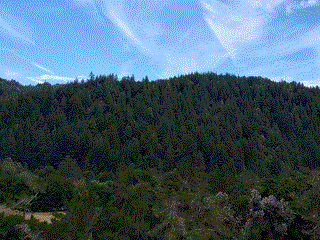
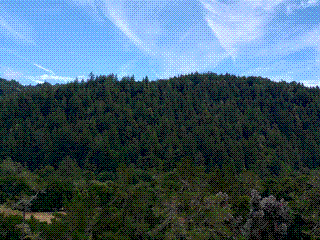
Title: PS1-style ordered dither on the background
Re-bake the title photo with a 4x4 ordered dither, the pattern the
PlayStation uses on its framebuffer, instead of error diffusion. The sky
gradient reads with the regular cross-hatch of a PS1 title rather than
the grain of a retro PC one. The CGA reference only sourced the photo
and the bird idea; the look it aims for is PS1.

diff --git a/CHANGELOG.md b/CHANGELOG.md
@@ -10,13 +10,13 @@ whose development history is summarized in docs/roadmap.md.
 ## [Unreleased]
 
 ### Added
-- A title screen in place of the plain text menu: a mountain photo, dithered
-  to the palette, under a two-line logo with birds drifting across its sky and
-  the menu in a framed box. The art is the same scene used by the DOS game the
-  project grows from, taken from the original photo at full colour rather than
-  the CGA-reduced version. A scaled-text helper in the graphics unit draws the
-  logo. With no save to continue, the menu opens on NEW GAME and skips the
-  dead CONTINUE row.
+- A title screen in place of the plain text menu: a mountain photo ordered-
+  dithered to the palette in the PlayStation style, under a two-line logo with
+  birds drifting across its sky and the menu in a framed box. The scene is the
+  same one the DOS game the project grows from uses, taken from the original
+  photo at full colour rather than the CGA-reduced version, and framed to the
+  same crop. A scaled-text helper in the graphics unit draws the logo. With no
+  save to continue, the menu opens on NEW GAME and skips the dead CONTINUE row.
 - Materialized cross-map routes. The party's auto-travel now plans the whole
   portal-linked route once, as an ordered list of per-map legs, and follows
   it. It re-searches only when the stored plan no longer covers the current
